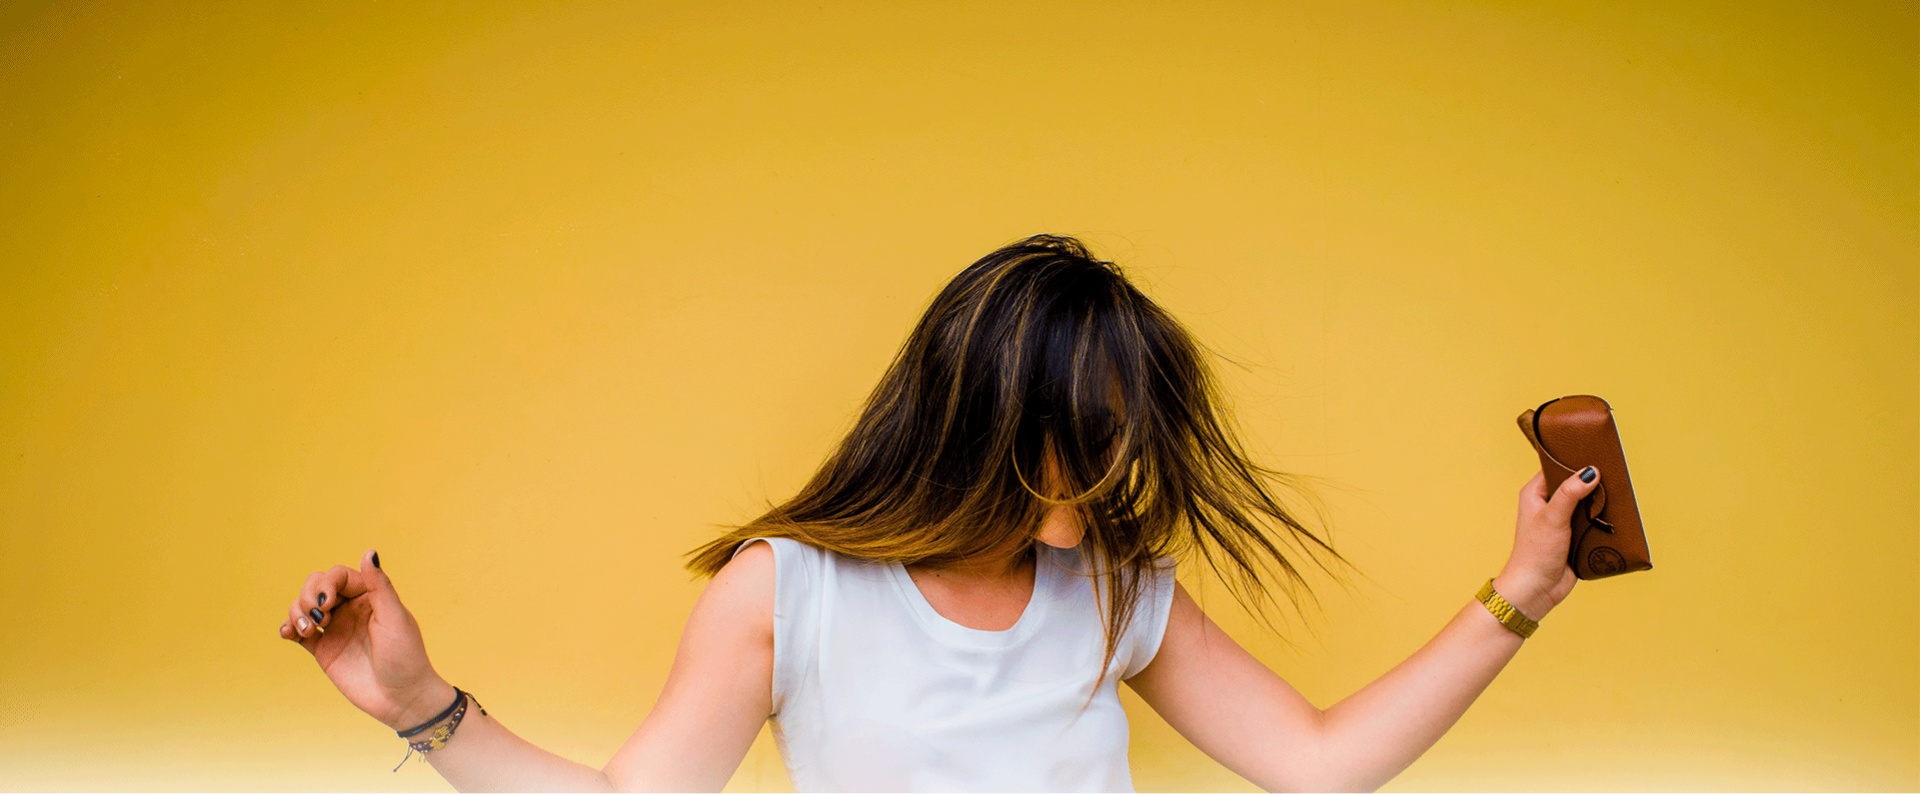
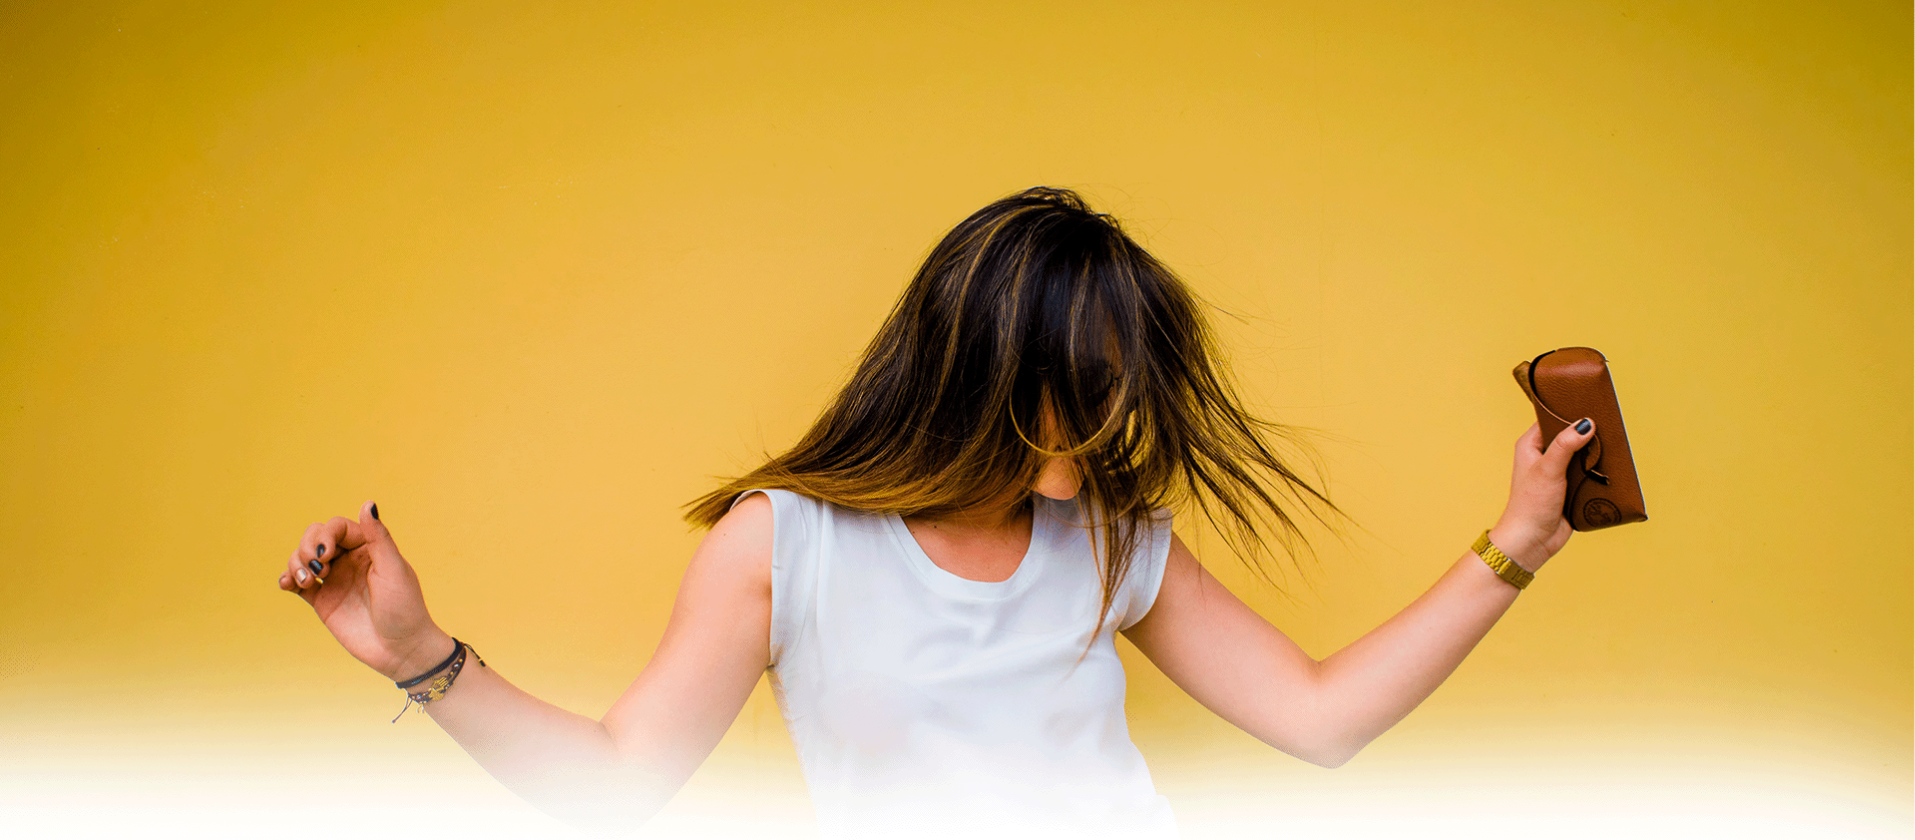
fixed slider non-responsive issue

diff --git a/shop/src/assets/images/icons/Icons.tsx b/shop/src/assets/images/icons/Icons.tsx
@@ -1,0 +1,109 @@
+import React from "react";
+
+const LeftArrow = () => {
+  return (
+    <svg
+      width="24"
+      height="24"
+      viewBox="0 0 24 24"
+      fill="none"
+      xmlns="http://www.w3.org/2000/svg"
+    >
+      <path
+        d="M16.2426 6.34317L14.8284 4.92896L7.75739 12L14.8285 19.0711L16.2427 17.6569L10.5858 12L16.2426 6.34317Z"
+        fill="currentColor"
+      />
+    </svg>
+  );
+};
+
+const RightArrow = () => {
+  return (
+    <svg
+      width="24"
+      height="24"
+      viewBox="0 0 24 24"
+      fill="none"
+      xmlns="http://www.w3.org/2000/svg"
+    >
+      <path
+        d="M10.5858 6.34317L12 4.92896L19.0711 12L12 19.0711L10.5858 17.6569L16.2427 12L10.5858 6.34317Z"
+        fill="currentColor"
+      />
+    </svg>
+  );
+};
+
+const Search = () => {
+  return (
+    <svg
+      width="20"
+      height="20"
+      viewBox="0 0 24 24"
+      fill="none"
+      xmlns="http://www.w3.org/2000/svg"
+    >
+      <path
+        fill-rule="evenodd"
+        clip-rule="evenodd"
+        d="M18.319 14.4326C20.7628 11.2941 20.542 6.75347 17.6569 3.86829C14.5327 0.744098 9.46734 0.744098 6.34315 3.86829C3.21895 6.99249 3.21895 12.0578 6.34315 15.182C9.22833 18.0672 13.769 18.2879 16.9075 15.8442C16.921 15.8595 16.9351 15.8745 16.9497 15.8891L21.1924 20.1317C21.5829 20.5223 22.2161 20.5223 22.6066 20.1317C22.9971 19.7412 22.9971 19.1081 22.6066 18.7175L18.364 14.4749C18.3493 14.4603 18.3343 14.4462 18.319 14.4326ZM16.2426 5.28251C18.5858 7.62565 18.5858 11.4246 16.2426 13.7678C13.8995 16.1109 10.1005 16.1109 7.75736 13.7678C5.41421 11.4246 5.41421 7.62565 7.75736 5.28251C10.1005 2.93936 13.8995 2.93936 16.2426 5.28251Z"
+        fill="currentColor"
+      />
+    </svg>
+  );
+};
+
+const Menu = () => {
+  return (
+    <svg
+      width="50"
+      height="50"
+      viewBox="0 0 24 24"
+      fill="none"
+      xmlns="http://www.w3.org/2000/svg"
+    >
+      <path
+        d="M2 6C2 5.44772 2.44772 5 3 5H21C21.5523 5 22 5.44772 22 6C22 6.55228 21.5523 7 21 7H3C2.44772 7 2 6.55228 2 6Z"
+        fill="currentColor"
+      />
+      <path
+        d="M2 12.0322C2 11.4799 2.44772 11.0322 3 11.0322H21C21.5523 11.0322 22 11.4799 22 12.0322C22 12.5845 21.5523 13.0322 21 13.0322H3C2.44772 13.0322 2 12.5845 2 12.0322Z"
+        fill="currentColor"
+      />
+      <path
+        d="M3 17.0645C2.44772 17.0645 2 17.5122 2 18.0645C2 18.6167 2.44772 19.0645 3 19.0645H21C21.5523 19.0645 22 18.6167 22 18.0645C22 17.5122 21.5523 17.0645 21 17.0645H3Z"
+        fill="currentColor"
+      />
+    </svg>
+  );
+};
+
+const Cart = ({ className }: any) => {
+  return (
+    <svg
+      className={className}
+      width="24"
+      height="24"
+      viewBox="0 0 24 24"
+      fill="none"
+      xmlns="http://www.w3.org/2000/svg"
+    >
+      <path
+        fill-rule="evenodd"
+        clip-rule="evenodd"
+        d="M5.79166 2H1V4H4.2184L6.9872 16.6776H7V17H20V16.7519L22.1932 7.09095L22.5308 6H6.6552L6.08485 3.38852L5.79166 2ZM19.9869 8H7.092L8.62081 15H18.3978L19.9869 8Z"
+        fill="currentColor"
+      />
+      <path
+        d="M10 22C11.1046 22 12 21.1046 12 20C12 18.8954 11.1046 18 10 18C8.89543 18 8 18.8954 8 20C8 21.1046 8.89543 22 10 22Z"
+        fill="currentColor"
+      />
+      <path
+        d="M19 20C19 21.1046 18.1046 22 17 22C15.8954 22 15 21.1046 15 20C15 18.8954 15.8954 18 17 18C18.1046 18 19 18.8954 19 20Z"
+        fill="currentColor"
+      />
+    </svg>
+  );
+};
+
+export { LeftArrow, RightArrow, Search, Menu, Cart };

diff --git a/shop/src/components/Slider.tsx b/shop/src/components/Slider.tsx
@@ -1,40 +1,28 @@
 import { useState, useEffect } from "react";
 import "../styles/style.scss";
-import banner from "../assets/images/banner.png";
-import jackets from "../assets/images/jackets.png";
-import star from "../assets/images/star.png";
-import logo from "../assets/images/icons/logo.png";
-import menu from "../assets/images/icons/menu.png";
-import search from "../assets/images/icons/search.png";
-import ukFlag from "../assets/images/icons/flag-uk.png";
-import cart from "../assets/images/icons/cart.png";
-import leftArrow from "../assets/images/icons/left_arrow.png";
-import rightArrow from "../assets/images/icons/right_arrow.png";
 
-const images = [
-  {
-    id: 1,
-    image: `${banner}`,
-    title: "Get start",
-    subTitle: "Your favorite shopping",
-  },
-  {
-    id: 2,
-    image: `${jackets}`,
-    title: "",
-    subTitle: "Great deals are waiting",
-  },
-  {
-    id: 3,
-    image: `${star}`,
-    title: "",
-    subTitle: "your favorite shopping",
-  },
-];
+import logo from "../assets/images/logo.png";
+import ukFlag from "../assets/images/flag-uk.png";
+import { images } from "../helpers/images";
+
+import {
+  LeftArrow,
+  RightArrow,
+  Search,
+  Menu,
+  Cart,
+} from "../assets/images/icons/Icons";
 
 const Slider = () => {
   const [currentImage, setCurrentImage] = useState(0);
   const totalImages = images.length;
+
+  useEffect(() => {
+    const interval = setInterval(() => {
+      setCurrentImage(currentImage === totalImages - 1 ? 0 : currentImage + 1);
+    }, 3000);
+    return () => clearInterval(interval);
+  }, [currentImage]);
 
   const nextImage = () => {
     setCurrentImage(currentImage === totalImages - 1 ? 0 : currentImage + 1);
@@ -51,8 +39,8 @@ const Slider = () => {
           <img src={logo}></img>
         </div>
         <div className="main">
-          <span className="main__menu">
-            <img src={menu}></img>
+          <span className="main__menu" style={{ color: "#fff" }}>
+            <Menu />
           </span>
           <div className="dropdown">
             <button className="btn dropdown__toggle">All Category</button>
@@ -69,7 +57,7 @@ const Slider = () => {
                 type="button"
                 style={{ backgroundColor: "#f26522", borderColor: "#f26522" }}
               >
-                <img src={search} />
+                <Search />
               </button>
             </div>
           </div>
@@ -80,7 +68,7 @@ const Slider = () => {
                 <span className="nav__link_text">English</span>
               </a>
               <div className="cart">
-                <img src={cart} style={{ marginRight: "15px" }} />
+                <Cart className="cart__icon" />
                 CART
               </div>
             </div>
@@ -88,10 +76,10 @@ const Slider = () => {
         </div>
         <div className="slider_btn__section">
           <button className="next-button" onClick={prevImage}>
-            <img src={leftArrow} alt="" />
+            <LeftArrow />
           </button>
           <button className="next-button" onClick={nextImage}>
-            <img src={rightArrow} alt="" />
+            <RightArrow />
           </button>
         </div>
       </div>

diff --git a/shop/src/styles/style.scss b/shop/src/styles/style.scss
@@ -29,7 +29,7 @@
 	display: flex;
 	flex-direction: column;
 	justify-content: center;
-	z-index: 999;
+	z-index: 1;
 	position: inherit;
 	&__logo {
 		width: 100%;
@@ -40,11 +40,11 @@
 }
 .dropdown__toggle {
 	display: inline-block;
-	color: #f1f1f1;
+	color: v.$main-color;
    text-align: center;
    font-size: 1rem;
-	background-color: #30302e;
-	border: 1px solid #30302e;
+	background-color: v.$primary-color;
+	border: 1px solid v.$primary-color;
    @include btn-style;
 	&:after {
 		content: "";
@@ -77,23 +77,30 @@
 		font-size: 1rem;
 		line-height: 1.5;
 		color: #495057;
-		background-color: #fff;
+		background-color: v.$main-color;
 		background-clip: padding-box;
-		border: 1px solid #ced4da;
+		border: 1px solid v.$main-color;
 		&:focus {
 			outline: none;
+			box-shadow:
+       inset 0 -1em 1em #f5f3f3,
+             0 0  0 1px rgb(255,255,255),
+             0.1em 0.1em 1em rgb(230, 220, 220);
 		}
   }
 }
 .btn-secondary {
 	@include btn-style;
 	position: relative;
+	padding: 0.4rem 0.4rem;
 	right: 2px;
+	display: flex;
+	color: v.$main-color;
 }
 
 .nav__link {
 	@include btn-style;
-	background-color: #f1f1f1;
+	background-color: v.$main-color;
 	color: #222;
 	&:after {
 		content: "";
@@ -137,7 +144,7 @@
   .banner__text {
 	position: relative;
 	top: 5rem;
-	color: #fff;
+	color: v.$main-color;
 	z-index: 1;
 	font-size: 1.8rem;
 	display: flex;
@@ -151,6 +158,18 @@
  flex-direction: column;
  align-items: center;
  }
+}
+.cart {
+	display: flex;
+	color: v.$main-color;
+	cursor: pointer;
+	&:hover {
+		color: v.$secondary-color;
+		transition: color ease-in-out 1s;
+	}
+	&__icon {
+		margin-right: 16px;
+	}
 }
   @media (max-width: 1165px) {
 	.container {
@@ -205,7 +224,7 @@
 		}
 		.nav__link {
 			background-color: transparent;
-			color: #fff;
+			color: v.$main-color;
 			padding: 0.3rem 0.15rem;
 	  }
 		.header__box {

diff --git a/shop/src/helpers/images.tsx b/shop/src/helpers/images.tsx
@@ -1,0 +1,45 @@
+import banner from "../assets/images/banner.png";
+import Frame1 from "../assets/images/Frame1.png";
+import Frame3 from "../assets/images/Frame3.png";
+import Frame4 from "../assets/images/Frame4.png";
+import Frame5 from "../assets/images/Frame5.png";
+import Frame6 from "../assets/images/Frame6.png";
+
+export const images = [
+  {
+    id: 1,
+    image: `${banner}`,
+    title: "Get start",
+    subTitle: "Your favorite shopping",
+  },
+  {
+    id: 2,
+    image: `${Frame1}`,
+    title: "Get start",
+    subTitle: "Your favorite shopping",
+  },
+  {
+    id: 3,
+    image: `${Frame3}`,
+    title: "Get start",
+    subTitle: "Your favorite shopping",
+  },
+  {
+    id: 4,
+    image: `${Frame4}`,
+    title: "Get start",
+    subTitle: "Your favorite shopping",
+  },
+  {
+    id: 5,
+    image: `${Frame5}`,
+    title: "Get start",
+    subTitle: "Your favorite shopping",
+  },
+  {
+    id: 6,
+    image: `${Frame6}`,
+    title: "Get start",
+    subTitle: "Your favorite shopping",
+  },
+];

diff --git a/shop/src/index.scss b/shop/src/index.scss
@@ -32,18 +32,12 @@ body {
   text-rendering: optimizeSpeed;
   line-height: 1.5;
 }
-
-ul[class],
-ol[class],
-li
-{
-  list-style: none;
-}
-
 a {
   text-decoration: none;	
 }
-
+button, a, svg {
+	cursor: pointer;
+}
 img {
   max-width: 100%;
 }

diff --git a/shop/src/styles/_variables.scss b/shop/src/styles/_variables.scss
@@ -2,7 +2,7 @@
 $fontFamily: "Roboto";
 $primary-color: #2b2a29;
 $secondary-color: #f26522;
-$text-style: #f1f1f1;
+$main-color: #f1f1f1;
 $container-lg: 1140px;
 $container-md: 960px;
 $container-sm: 720px;
